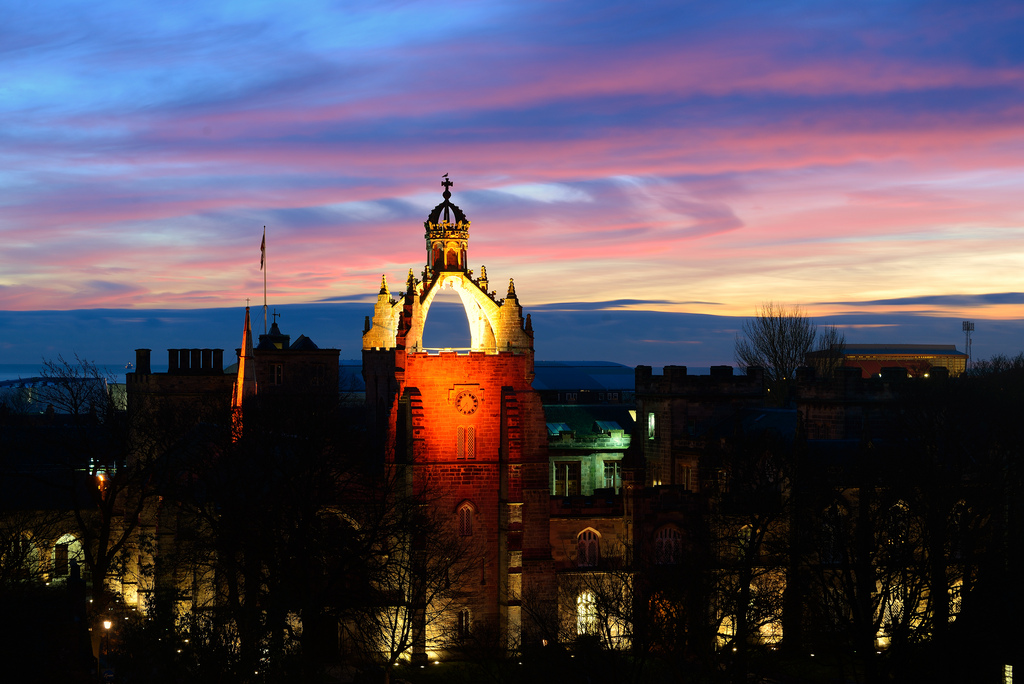
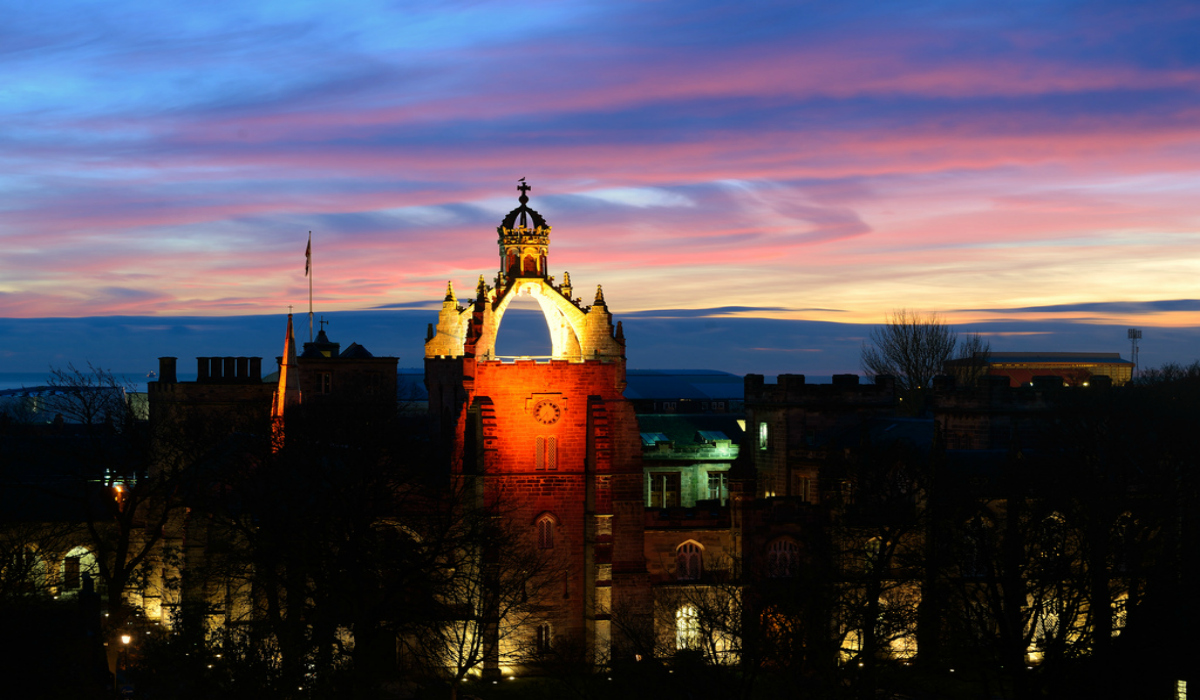
Added a new slideshow pic

diff --git a/index.html b/index.html
@@ -32,10 +32,10 @@
     </div>
 
     <div class="item">
-      <img src="la.jpg" alt="Los Angeles">
+      <img src="libraryslideshow.jpg" alt="Sir Duncan Rice">
       <div class="carousel-caption">
-        <h3>LA</h3>
-        <p>Even though the traffic was a mess, we had the best time.</p>
+        <h3>The Sir Duncan Rice Library</h3>
+        <p>Buy new books.</p>
       </div> 
     </div>
   </div>
@@ -98,7 +98,6 @@
     <div id="demo" class="collapse">
       <p>2nd year University of Aberdeen Student</p>
       <p>Studying MA Psychology</p>
-      <p>BALLALALA</p>
     </div>
     <div class="col-sm-4">
     <p class="text-center"><strong>Britten</strong></p><br>
@@ -109,13 +108,10 @@
       <div id="demo2" class="collapse">
       <p>First year student at University of Aberdeen</p>
       <p>Studying MA Business Management and Psychology</p>
-      <p>Coding</p>
     </div>
      </div>
      </div>
      <!--ENDS ABOUT US-->
-
-
 
 <style>
 .bg-1 {
